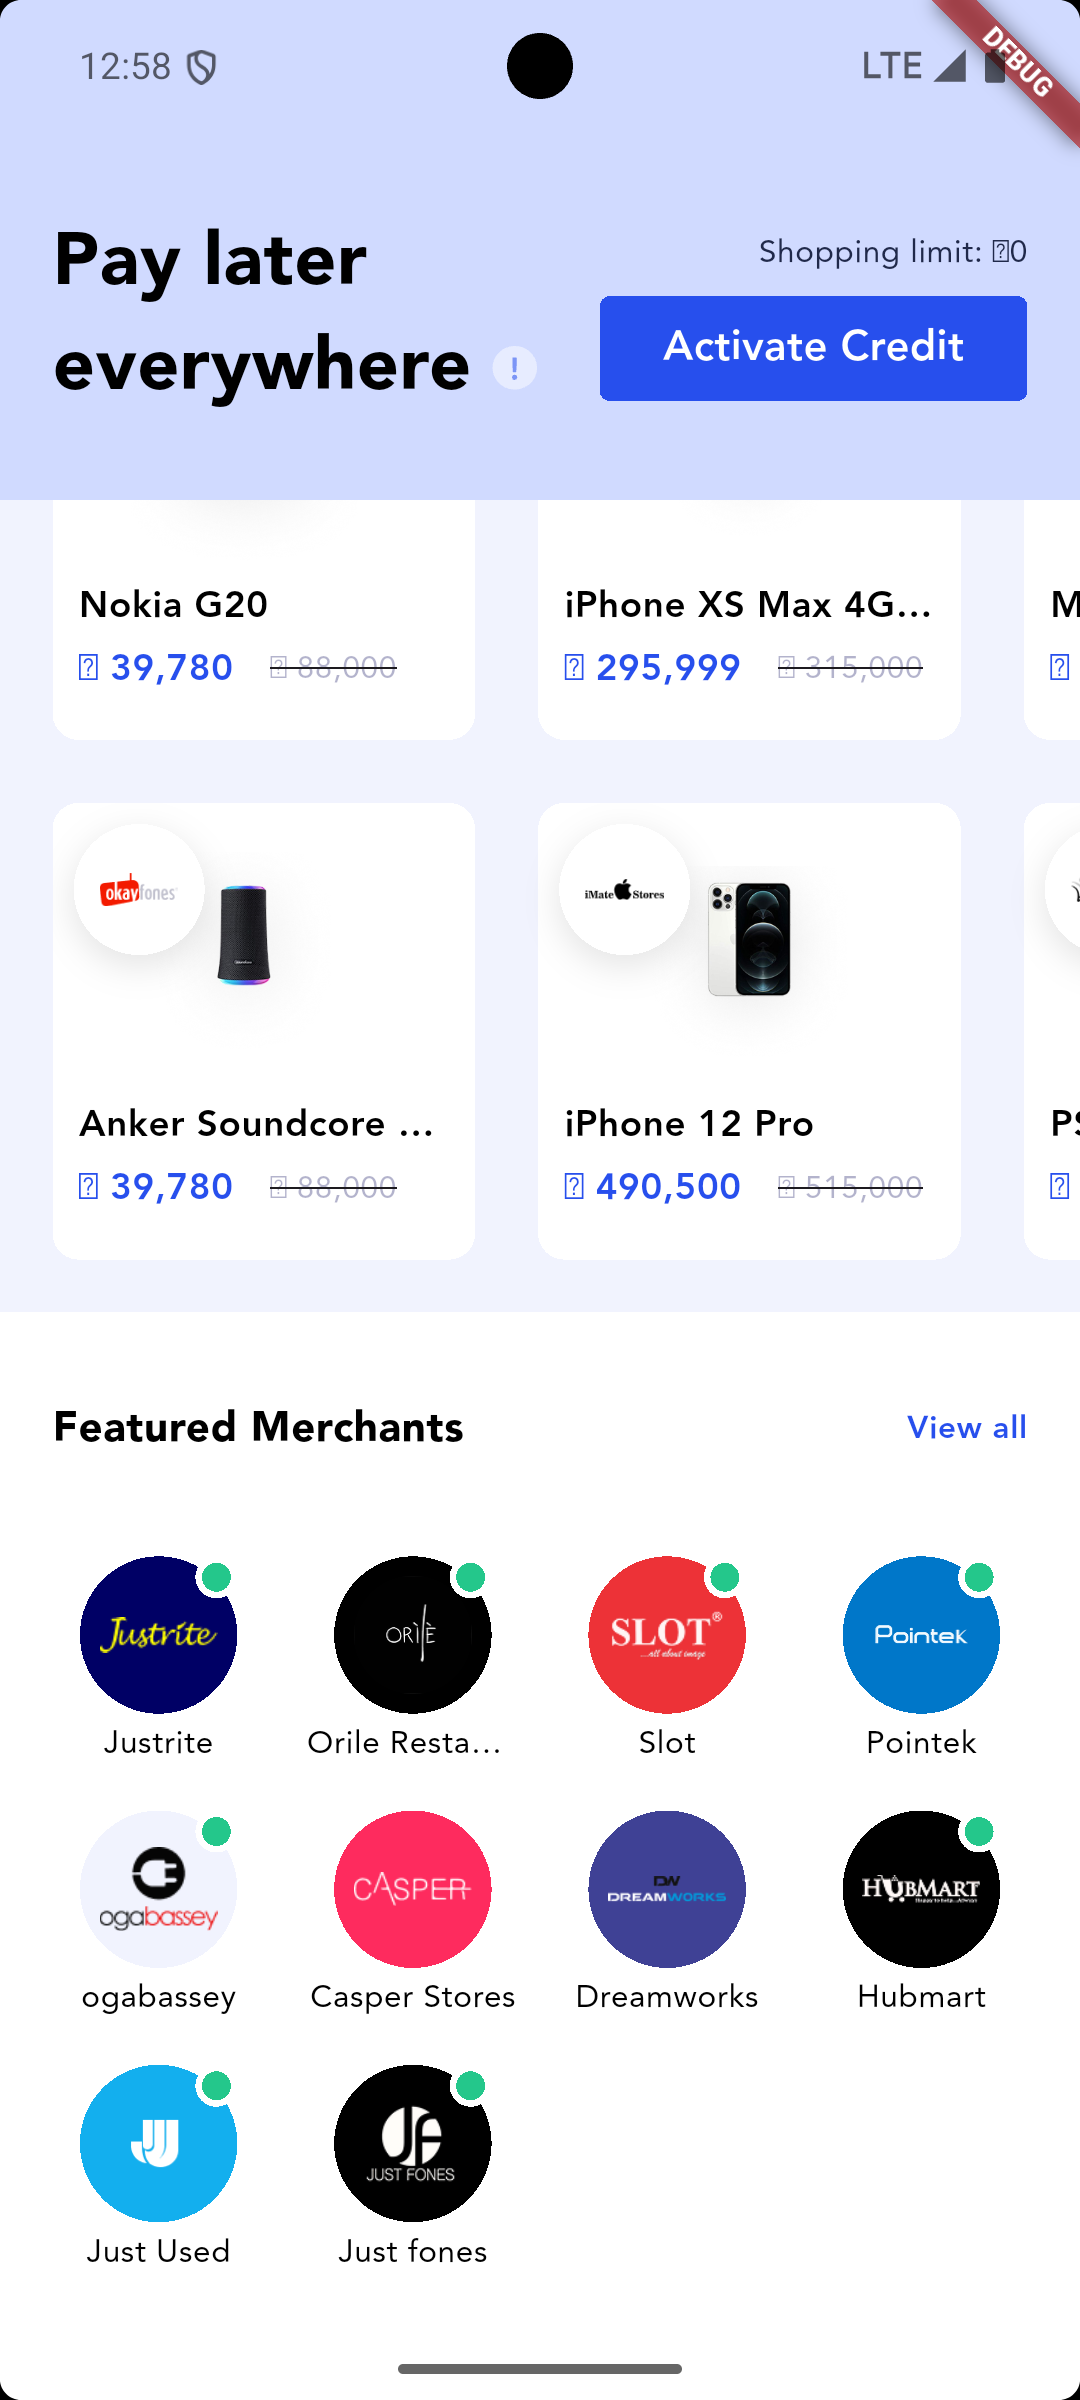
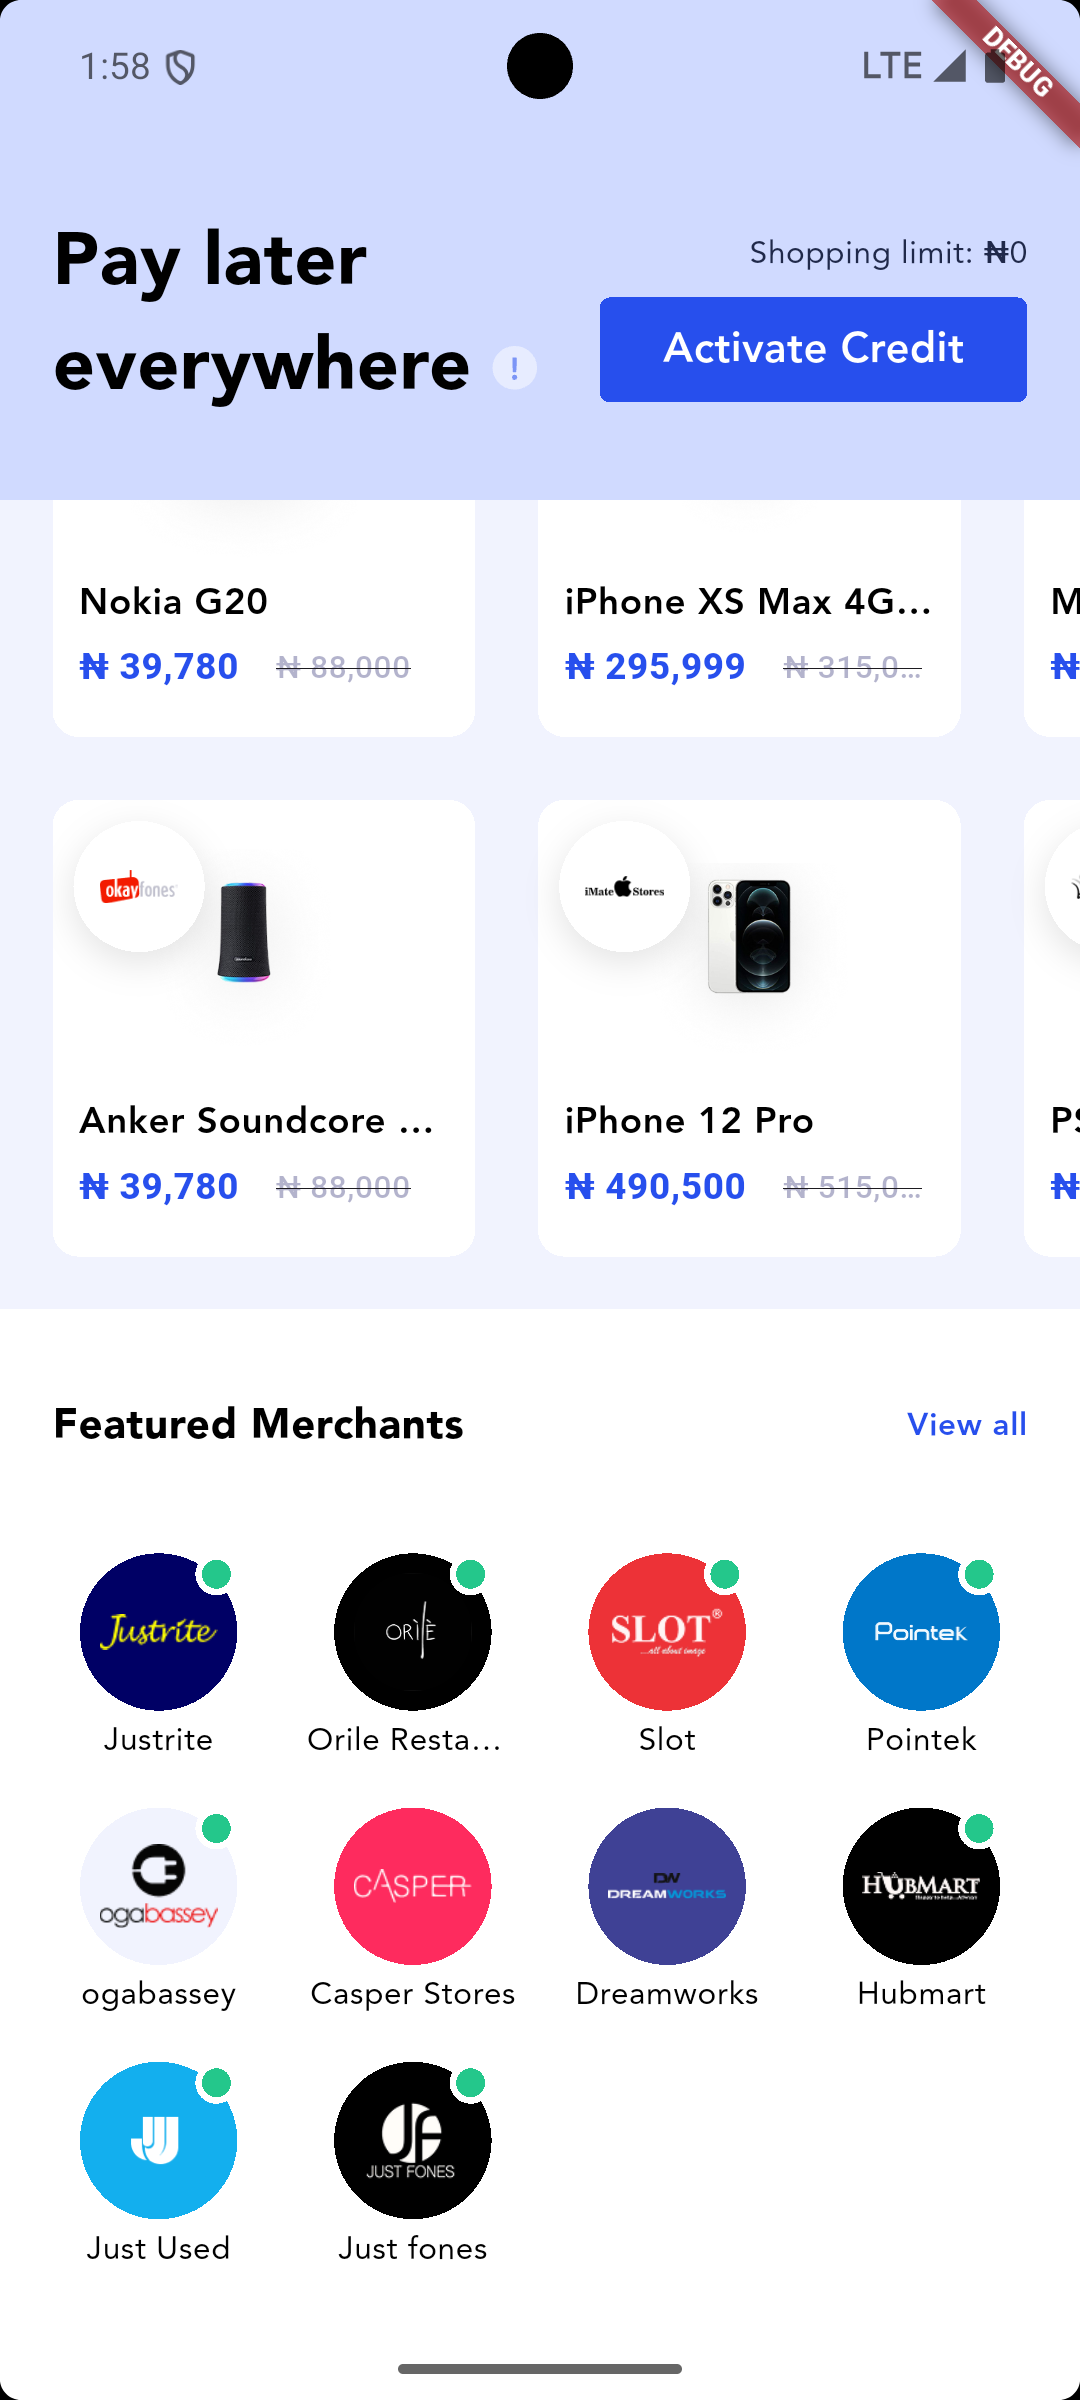
feat: update product pricing format and enhance UI elements in home view

diff --git a/lib/feature/home/presentation/widget/productcard.dart b/lib/feature/home/presentation/widget/productcard.dart
@@ -44,28 +44,54 @@ class ProductCard extends StatelessWidget {
                       Text(
                         title,
                         overflow: TextOverflow.ellipsis,
-
                         style: TextStyle(color: AppColor.black, fontSize: 14, fontWeight: FontWeight.w700),
                       ),
                       AppSizes.h(4),
                       Row(
                         children: [
-                          Text(
-                            price,
+                          Text.rich(
+                            TextSpan(
+                              text: '₦ ',
+                              style: TextStyle(
+                                color: AppColor.primary,
+                                fontSize: 14,
+                                fontWeight: FontWeight.w800,
+                                fontFamily: 'Roboto',
+                              ),
+                              children: [
+                                TextSpan(
+                                  text: price,
+                                  style: TextStyle(color: AppColor.primary, fontSize: 14, fontWeight: FontWeight.w800),
+                                ),
+                              ],
+                            ),
                             overflow: TextOverflow.ellipsis,
-                            style: TextStyle(color: AppColor.primary, fontSize: 14, fontWeight: FontWeight.w800),
                           ),
                           AppSizes.w(14),
                           Flexible(
-                            child: Text(
-                              oldPrice,
-                              overflow: TextOverflow.ellipsis,
-                              style: TextStyle(
-                                color: AppColor.purple600,
-                                fontSize: 12,
-                                fontWeight: FontWeight.w500,
-                                decoration: TextDecoration.lineThrough,
+                            child: Text.rich(
+                              TextSpan(
+                                text: '₦ ',
+                                style: TextStyle(
+                                  color: AppColor.purple600,
+                                  fontSize: 12,
+                                  fontWeight: FontWeight.w500,
+                                  decoration: TextDecoration.lineThrough,
+                                  fontFamily: 'Roboto',
+                                ),
+                                children: [
+                                  TextSpan(
+                                    text: oldPrice,
+                                    style: TextStyle(
+                                      color: AppColor.purple600,
+                                      fontSize: 12,
+                                      fontWeight: FontWeight.w500,
+                                      decoration: TextDecoration.lineThrough,
+                                    ),
+                                  ),
+                                ],
                               ),
+                              overflow: TextOverflow.ellipsis,
                             ),
                           ),
                         ],

diff --git a/lib/feature/home/presentation/view/home_view.dart b/lib/feature/home/presentation/view/home_view.dart
@@ -165,24 +165,24 @@ class _HomeViewState extends State<HomeView> {
 final List<ProductModel> firstCategory = [
   ProductModel(
     title: 'Nokia G20',
-    price: '₦ 39,780',
-    oldPrice: '₦ 88,000',
+    price: '39,780',
+    oldPrice: '88,000',
     imagePath: Assets.images.img1.path,
     logoPath: Assets.images.subimg1.path,
   ),
 
   ProductModel(
     title: 'iPhone XS Max 4GB..',
-    price: '₦ 295,999',
-    oldPrice: '₦ 315,000',
+    price: '295,999',
+    oldPrice: '315,000',
     imagePath: Assets.images.img2.path,
     logoPath: Assets.images.subimg2.path,
   ),
 
   ProductModel(
     title: 'Masterchef Pressure Cooker',
-    price: '₦ 39,780',
-    oldPrice: '₦ 88,000',
+    price: '39,780',
+    oldPrice: '88,000',
     imagePath: Assets.images.img3.path,
     logoPath: Assets.images.subimg3.path,
   ),
@@ -191,24 +191,24 @@ final List<ProductModel> firstCategory = [
 final List<ProductModel> secondCategory = [
   ProductModel(
     title: 'Anker Soundcore Life P2',
-    price: '₦ 39,780',
-    oldPrice: '₦ 88,000',
+    price: '39,780',
+    oldPrice: '88,000',
     imagePath: Assets.images.img4.path,
     logoPath: Assets.images.subimg4.path,
   ),
 
   ProductModel(
     title: 'iPhone 12 Pro',
-    price: '₦ 490,500',
-    oldPrice: '₦ 515,000',
+    price: '490,500',
+    oldPrice: '515,000',
     imagePath: Assets.images.img5.path,
     logoPath: Assets.images.subimg5.path,
   ),
 
   ProductModel(
     title: 'PS4 Controller',
-    price: '₦ 39,780',
-    oldPrice: '₦ 88,000',
+    price: '39,780',
+    oldPrice: '88,000',
     imagePath: Assets.images.img6.path,
     logoPath: Assets.images.subimg6.path,
   ),

diff --git a/lib/feature/home/presentation/widget/flexiblespace.dart b/lib/feature/home/presentation/widget/flexiblespace.dart
@@ -40,9 +40,26 @@ class Flexiblespace extends StatelessWidget {
               crossAxisAlignment: CrossAxisAlignment.end,
               mainAxisAlignment: MainAxisAlignment.center,
               children: [
-                Text(
-                  'Shopping limit: ₦0',
-                  style: TextStyle(color: AppColor.blue100, fontSize: 12, fontWeight: FontWeight.w500),
+                Text.rich(
+                  TextSpan(
+                    text: 'Shopping limit: ',
+                    style: TextStyle(color: AppColor.blue100, fontSize: 12, fontWeight: FontWeight.w500),
+                    children: [
+                      TextSpan(
+                        text: '₦',
+                        style: TextStyle(
+                          color: AppColor.blue100,
+                          fontSize: 12,
+                          fontWeight: FontWeight.w500,
+                          fontFamily: 'Roboto',
+                        ),
+                      ),
+                      TextSpan(
+                        text: '0',
+                        style: TextStyle(color: AppColor.blue100, fontSize: 12, fontWeight: FontWeight.w500),
+                      ),
+                    ],
+                  ),
                 ),
                 AppSizes.h(8),
                 CustomButton(onPressed: () {}, text: 'Activate Credit', width: 163),

diff --git a/README.md b/README.md
@@ -147,4 +147,4 @@ Here are the screenshots of the app on Android & iOS devices:
 
 ## Apk Download
 
-You can download the APK file from [here]().
+You can download the APK file from [here](https://drive.google.com/file/d/1af2tlqteUbAjKyZDb-NnKbd2M73j_qfM/view?usp=sharing).
